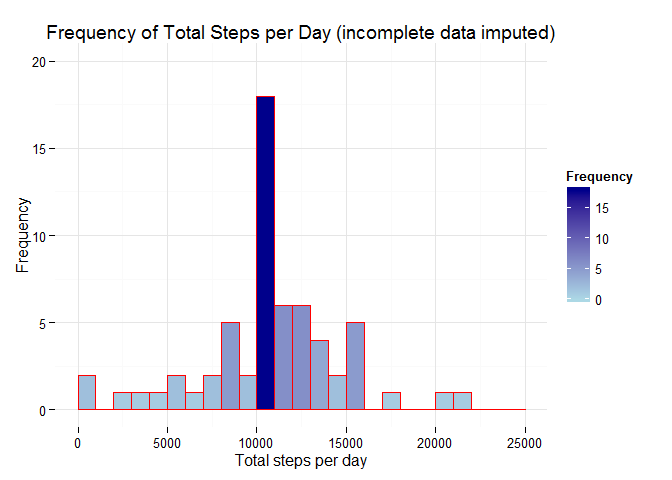
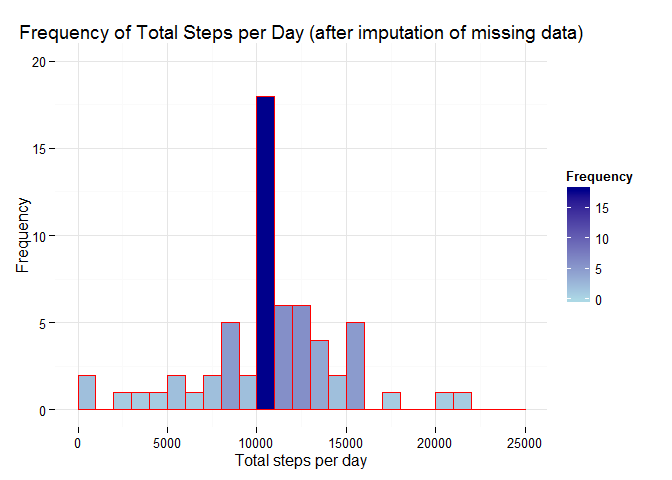
Add minor improvements.

Changed region(s): [[0.0312, 0.0312, 0.875, 0.0938]]

diff --git a/PA1_template.html b/PA1_template.html
@@ -81,6 +81,14 @@ rm(list = ls())
 ## download.file(fileUrl, destfile = &quot;./data/activity.zip&quot;, mode = 'wb')
 ## paste0(&quot;Date of download = &quot;, Sys.time())
 
+## Zipped data file is loaded into &quot;./data&quot; directory&quot;.
+## Extract file.
+unzip(zipfile = &quot;./data/activity.zip&quot;, exdir = &quot;./data&quot;)
+
+## Read data
+activity &lt;- read.csv(&quot;./data/activity.csv&quot;, colClasses = c(&quot;numeric&quot;,
+        &quot;POSIXct&quot;, &quot;numeric&quot;))
+
 ## Load required libraries
 library(lubridate)
 library(dplyr)
@@ -89,24 +97,17 @@ library(scales)</code></pre>
 <ol start="2" style="list-style-type: decimal">
 <li>Process/transform the data into a format suitable for analysis</li>
 </ol>
-<pre class="r"><code>## Zipped data file is already loaded into &quot;./data&quot; directory&quot;.
-## Extract file.
-unzip(zipfile = &quot;./data/activity.zip&quot;, exdir = &quot;./data&quot;)
-
-## Read data
-activity &lt;- read.csv(&quot;./data/activity.csv&quot;, colClasses = c(&quot;numeric&quot;,
-        &quot;POSIXct&quot;, &quot;numeric&quot;))
-
-## Pad the the interval field with sufficient leading zeroes
+<p>Note that any processing specific to a section is shown in that section – for example, imputation of missing data is performed in the section entitled “Imputing missing values”, etc. Only preliminary padding of the ‘interval’ field is shown here.</p>
+<pre class="r"><code>## Pad the the interval field with sufficient leading zeroes
 ## to include 4 digits.
 activity$interval &lt;- sprintf(&quot;%04d&quot;, activity$interval)</code></pre>
 </div>
 <div id="what-is-mean-total-number-of-steps-taken-per-day" class="section level2">
 <h2>What is mean total number of steps taken per day?</h2>
-<p>Missing values in the dataset are explicitly excluded in this section.</p>
+<p>Missing values in the dataset are explicitly <em>excluded</em> in this section.</p>
 <div id="calculation-of-total-number-of-steps-taken-per-day" class="section level3">
 <h3>1. Calculation of total number of steps taken per day</h3>
-<p>Note: this data is available in dataframe ‘act_C_byDate’. Only the summary is explicitly displayed here.</p>
+<p>Note: this data is available in dataframe ‘act_C_byDate’. Only the summary and the first few observations in the dataframe are explicitly displayed here.</p>
 <pre class="r"><code>## Create new dataframe excluding NA values
 act_C_byDate &lt;- activity %&gt;% filter(complete.cases(activity[])) %&gt;%
         group_by(date) %&gt;% summarize(steps = sum(steps))
@@ -119,6 +120,21 @@ summary(act_C_byDate)</code></pre>
 ##  Mean   :2012-10-30 17:12:27   Mean   :10766  
 ##  3rd Qu.:2012-11-16 00:00:00   3rd Qu.:13294  
 ##  Max.   :2012-11-29 00:00:00   Max.   :21194</code></pre>
+<pre class="r"><code>act_C_byDate</code></pre>
+<pre><code>## Source: local data frame [53 x 2]
+## 
+##          date steps
+## 1  2012-10-02   126
+## 2  2012-10-03 11352
+## 3  2012-10-04 12116
+## 4  2012-10-05 13294
+## 5  2012-10-06 15420
+## 6  2012-10-07 11015
+## 7  2012-10-09 12811
+## 8  2012-10-10  9900
+## 9  2012-10-11 10304
+## 10 2012-10-12 17382
+## ..        ...   ...</code></pre>
 </div>
 <div id="histogram-of-the-total-number-of-steps-taken-each-day" class="section level3">
 <h3>2. Histogram of the total number of steps taken each day</h3>
@@ -180,11 +196,11 @@ paste0(&quot;The 5-minute interval displaying the most activity is &quot;, forma
 <h3>1. Calculate and report the total number of missing values in the dataset (i.e. the total number of rows with NAs)</h3>
 <pre class="r"><code>## Determine the total number of missing values in the dataset
 incompleteObservations &lt;- sum(!complete.cases(activity[]))</code></pre>
-<p>The number of incomplete observations in the dataset is 2304.</p>
+<p>The dataset contains 2304 incomplete observations.</p>
 </div>
 <div id="strategy-for-filling-in-all-of-the-missing-values-in-the-dataset." class="section level3">
 <h3>2. Strategy for filling in all of the missing values in the dataset.</h3>
-<p>The approach adopted is to populate any NA ‘steps’ entries for each interval with the mean of the remainder of the entries for the same interval, excluding NA values.</p>
+<p>The approach adopted is to populate any NA ‘steps’ entries for each interval with the mean of the remainder of the entries for the same interval, excluding NA values. The code that performs this is shown in the next section.</p>
 </div>
 <div id="create-a-new-dataset-that-is-equal-to-the-original-dataset-but-with-the-missing-data-filled-in." class="section level3">
 <h3>3. Create a new dataset that is equal to the original dataset but with the missing data filled in.</h3>
@@ -202,8 +218,8 @@ ggplot(data=act_F_byDate, aes(steps)) +
         geom_histogram(col=&quot;red&quot;, aes(fill = ..count..),
                        breaks=seq(0, 25000, by = 1000)) +
         theme_minimal() + xlab(&quot;Total steps per day&quot;) + ylab(&quot;Frequency&quot;) +
-        labs(title = &quot;Frequency of Total Steps per Day (incomplete data imputed)&quot;)</code></pre>
[1 lines of base64/hex data omitted]
+        labs(title = &quot;Frequency of Total Steps per Day (after imputation of missing data)&quot;)</code></pre>
[1 lines of base64/hex data omitted]
 </div>
 <div id="b.-calculation-of-mean-and-median-total-number-of-steps-taken-per-day" class="section level3">
 <h3>4(b). Calculation of mean and median total number of steps taken per day</h3>

diff --git a/PA1_template.md b/PA1_template.md
@@ -1,9 +1,4 @@
----
-title: "Reproducible Research: Peer Assessment 1"
-output: 
-  html_document:
-    keep_md: true
----
+# Reproducible Research: Peer Assessment 1
 
 ## Loading and preprocessing the data
 
@@ -11,8 +6,8 @@ Show any code that is needed to
 
 1. Load the data (i.e. read.csv())
 
-```{r Prepare environment, echo=TRUE, error=FALSE, message=FALSE, warning=FALSE}
 
+```r
 ## Clear environment
 rm(list = ls())
 
@@ -44,8 +39,8 @@ library(scales)
 
 Note that any processing specific to a section is shown in that section -- for example, imputation of missing data is performed in the section entitled "Imputing missing values", etc. Only preliminary padding of the 'interval' field is shown here.
 
-```{r Preprocess data, echo=TRUE}
 
+```r
 ## Pad the the interval field with sufficient leading zeroes
 ## to include 4 digits.
 activity$interval <- sprintf("%04d", activity$interval)
@@ -59,19 +54,50 @@ Missing values in the dataset are explicitly *excluded* in this section.
 ### 1. Calculation of total number of steps taken per day
 Note: this data is available in dataframe 'act_C_byDate'. Only the summary and the first few observations in the dataframe are explicitly displayed here.
 
-```{r Total steps per day, echo=TRUE}
+
+```r
 ## Create new dataframe excluding NA values
 act_C_byDate <- activity %>% filter(complete.cases(activity[])) %>%
         group_by(date) %>% summarize(steps = sum(steps))
 
 summary(act_C_byDate)
+```
+
+```
+##       date                         steps      
+##  Min.   :2012-10-02 00:00:00   Min.   :   41  
+##  1st Qu.:2012-10-16 00:00:00   1st Qu.: 8841  
+##  Median :2012-10-29 00:00:00   Median :10765  
+##  Mean   :2012-10-30 17:12:27   Mean   :10766  
+##  3rd Qu.:2012-11-16 00:00:00   3rd Qu.:13294  
+##  Max.   :2012-11-29 00:00:00   Max.   :21194
+```
+
+```r
 act_C_byDate
+```
+
+```
+## Source: local data frame [53 x 2]
+## 
+##          date steps
+## 1  2012-10-02   126
+## 2  2012-10-03 11352
+## 3  2012-10-04 12116
+## 4  2012-10-05 13294
+## 5  2012-10-06 15420
+## 6  2012-10-07 11015
+## 7  2012-10-09 12811
+## 8  2012-10-10  9900
+## 9  2012-10-11 10304
+## 10 2012-10-12 17382
+## ..        ...   ...
 ```
 
 ### 2. Histogram of the total number of steps taken each day
 
-```{r Histogram of total steps taken per day, echo=TRUE}
 
+```r
 ggplot(data=act_C_byDate, aes(steps)) +
         scale_fill_gradient("Frequency", low = "lightgreen", high = "darkgreen") +
         geom_histogram(col="red", aes(fill = ..count..),
@@ -80,14 +106,28 @@ ggplot(data=act_C_byDate, aes(steps)) +
         labs(title = "Frequency of Total Steps per Day averaged\nacross all days (incomplete data excluded)")
 ```
 
+![](PA1_template_files/figure-html/Histogram of total steps taken per day-1.png) 
+
 
 ### 3. Mean and median of the total number of steps taken per day
 
 This information is available in the summry shown in (1.) above, but is explicitly generated here for clarity.
 
-```{r Calculate mean and median values, echo=TRUE}
+
+```r
 paste("Mean total steps per day = ", round(mean(act_C_byDate$steps)))
+```
+
+```
+## [1] "Mean total steps per day =  10766"
+```
+
+```r
 paste("Median total steps per day = ", median(act_C_byDate$steps))
+```
+
+```
+## [1] "Median total steps per day =  10765"
 ```
 
 
@@ -96,7 +136,8 @@ paste("Median total steps per day = ", median(act_C_byDate$steps))
 
 Note that the x-axis has been labelled by "Time of Day" rather than by "Interval" for the purpose of more intuitive comprehension.
 
-```{r Average Daily Activity, echo=TRUE}
+
+```r
 act_C_byItvl <- activity %>% filter(complete.cases(activity[])) %>%
         group_by(interval) %>% summarize(steps = round(mean(steps)))
 
@@ -118,13 +159,20 @@ ggplot(act_C_byItvl, aes(x = interval, y = steps)) +
         labs(title = "Average Total Steps by Time of Day (incomplete data excluded)")
 ```
 
+![](PA1_template_files/figure-html/Average Daily Activity-1.png) 
+
 
 ### 2. Determination of 5-minute interval, on average across all the days in the dataset, containing the maximum number of steps
 
-```{r Determine Interval with Maximum Average Activity, echo=TRUE}
+
+```r
 Itvl_Max_Activity <- act_C_byItvl$interval[which.max(act_C_byItvl$steps)]
 
 paste0("The 5-minute interval displaying the most activity is ", format(Itvl_Max_Activity, format = "%R", tz = ""))
+```
+
+```
+## [1] "The 5-minute interval displaying the most activity is 08:35"
 ```
 
 
@@ -134,12 +182,13 @@ Note that there are a number of days/intervals where there are missing values (c
 
 ### 1. Calculate and report the total number of missing values in the dataset (i.e. the total number of rows with NAs)
 
-```{r Calculate Number of Missing Values, echo=TRUE}
+
+```r
 ## Determine the total number of missing values in the dataset
 incompleteObservations <- sum(!complete.cases(activity[]))
 ```
 
-The dataset contains `r incompleteObservations` incomplete observations.
+The dataset contains 2304 incomplete observations.
 
 ### 2. Strategy for filling in all of the missing values in the dataset.
 
@@ -147,7 +196,8 @@ The approach adopted is to populate any NA 'steps' entries for each interval wit
 
 ### 3. Create a new dataset that is equal to the original dataset but with the missing data filled in.
 
-```{r New dataset with imputed steps values, echo=TRUE}
+
+```r
 ## Create a new dataset that is equal to the original dataset but with
 ## the missing data filled in.
 act_F <- activity %>% group_by(interval) %>% mutate(steps = ifelse(is.na(steps),
@@ -158,7 +208,8 @@ act_F <- activity %>% group_by(interval) %>% mutate(steps = ifelse(is.na(steps),
 ### 4(a). Histogram of the total number of steps taken each day
 
 
-```{r Create activity histogram incorporating imputed data, echo=TRUE}
+
+```r
 act_F_byDate <-  act_F %>% group_by(date) %>% summarize(steps = sum(steps))
 ggplot(data=act_F_byDate, aes(steps)) +
         scale_fill_gradient("Frequency", low = "lightblue", high = "darkblue") +
@@ -167,17 +218,28 @@ ggplot(data=act_F_byDate, aes(steps)) +
                        breaks=seq(0, 25000, by = 1000)) +
         theme_minimal() + xlab("Total steps per day") + ylab("Frequency") +
         labs(title = "Frequency of Total Steps per Day (after imputation of missing data)")
-
-
 ```
+
+![](PA1_template_files/figure-html/Create activity histogram incorporating imputed data-1.png) 
 
 ### 4(b). Calculation of mean and median total number of steps taken per day
 
-```{r Mean and Median with imputed data, echo=TRUE}
+
+```r
 ## Calculate mean and median of total steps per day with dataset containg imputed data
 paste("Mean total steps per day = ", round(mean(act_F_byDate$steps)))
-paste("Median total steps per day = ", median(act_F_byDate$steps))
+```
 
+```
+## [1] "Mean total steps per day =  10766"
+```
+
+```r
+paste("Median total steps per day = ", median(act_F_byDate$steps))
+```
+
+```
+## [1] "Median total steps per day =  10762"
 ```
 
 It is evident from comparison of the plot (including imputed data) with the earlier histogram (excluding incomplete observations) that most if not all of the incomplete observations are in the 10000 - 11000 bin. Neither the mean nor the median has materially changed, and distribution of counts remains broadly unchanged.
@@ -195,7 +257,8 @@ This section utilizes the dataset with the filled-in missing values.
 
 ### 1. Create a new factor variable in the dataset with two levels - "weekday" and "weekend" indicating whether a given date is a weekday or weekend day.
 
-```{r Create new factor variable, echo=TRUE}
+
+```r
 act_F_byDayType <- act_F %>% mutate(dayType = as.factor(ifelse(weekdays(date)
                 %in% c("Saturday", "Sunday"), "Weekend", "Weekday"))) %>%
         group_by(dayType, interval) %>%
@@ -204,7 +267,8 @@ act_F_byDayType <- act_F %>% mutate(dayType = as.factor(ifelse(weekdays(date)
 
 ### 2. Panel plot containing a time series plot of the 5-minute interval (x-axis) and the average number of steps taken, averaged across all weekday days or weekend days (y-axis).
 
-```{r Panel plot, echo=TRUE}
+
+```r
 hours <- substr(act_F_byDayType$interval, 1, 2)
 minutes <- substr(act_F_byDayType$interval, 3, 4)
 act_F_byDayType$interval <- paste0(hours, ":", minutes)
@@ -227,6 +291,8 @@ ggplot(act_F_byDayType, aes(x = interval,
         xlab("Time of day") +
         ylab("Average number of steps")
 ```
+
+![](PA1_template_files/figure-html/Panel plot-1.png) 
 
 
 
